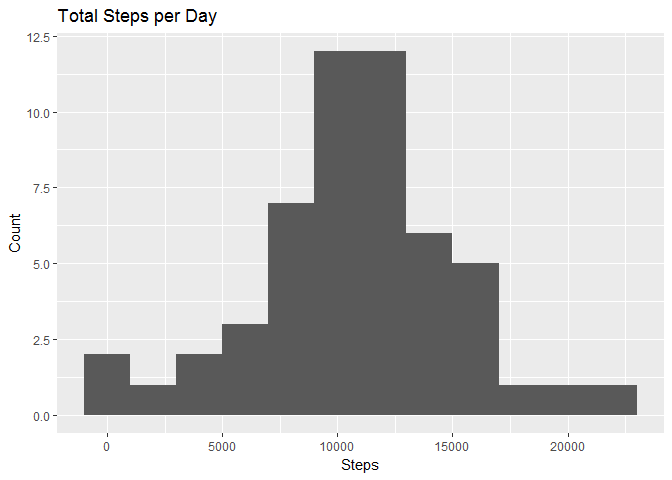
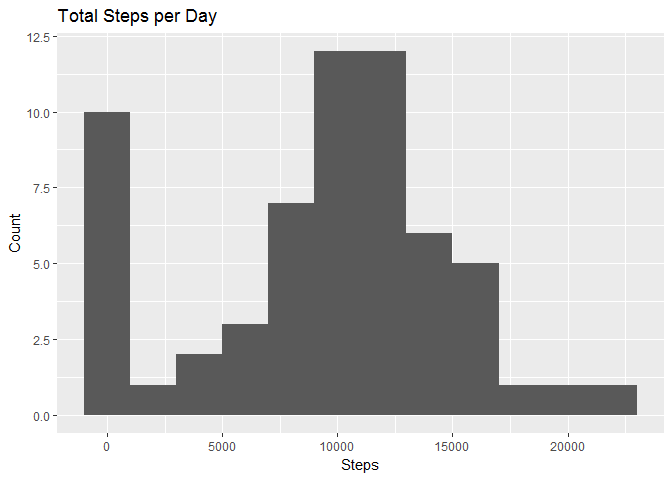
made some fixes to mean calculations

Changed region(s): [[0.125, 0.2188, 0.2188, 0.75]]

diff --git a/PA1_template.html b/PA1_template.html
@@ -122,14 +122,15 @@ $(document).ready(function () {
 
 <div id="loading-and-preprocessing-the-data" class="section level2">
 <h2>Loading and preprocessing the data</h2>
-<pre class="r"><code>#download the zipfile
-download.file(&quot;https://d396qusza40orc.cloudfront.net/repdata%2Fdata%2Factivity.zip&quot;, &quot;activity.zip&quot;)
+<pre class="r"><code>#download, unzip and read file the zipfile
+if(!file.exists(&quot;activity.zip&quot;)){
+        download.file(&quot;https://d396qusza40orc.cloudfront.net/repdata%2Fdata%2Factivity.zip&quot;, &quot;activity.zip&quot;)
+        unzip(&quot;activity.zip&quot;)
+}
 
-#unzip the file
-unzip(&quot;activity.zip&quot;)
-
-# read the data from unzipped csv file
+#read file
 activity &lt;- read.csv(&quot;activity.csv&quot;)
+
 # convert date column to data format
 activity$date &lt;- as.Date(as.character(activity[[&quot;date&quot;]]), &quot;%Y-%m-%d&quot;)</code></pre>
 </div>
@@ -146,18 +147,17 @@ library(dplyr)</code></pre>
 ## 
 ##     intersect, setdiff, setequal, union</code></pre>
 <pre class="r"><code>#get total steps in each day
-totalStepsPerDay &lt;- activity %&gt;% group_by(date) %&gt;% summarize(total.steps = sum(steps))
+totalStepsPerDay &lt;- activity %&gt;% group_by(date) %&gt;% summarize(total.steps = sum(steps, na.rm = TRUE))
 
 #plot histogram of total steps per day
 g &lt;- ggplot(totalStepsPerDay, aes(total.steps))
 g + geom_histogram(binwidth = 2000) + labs(title = &quot;Total Steps per Day&quot;) + labs(x = &quot;Steps&quot;, y = &quot;Count&quot;)</code></pre>
-<pre><code>## Warning: Removed 8 rows containing non-finite values (stat_bin).</code></pre>
[2 lines of base64/hex data omitted]
 <pre class="r"><code># calculating mean and median for total steps per day
 mean(totalStepsPerDay$total.steps, na.rm = TRUE)</code></pre>
-<pre><code>## [1] 10766.19</code></pre>
+<pre><code>## [1] 9354.23</code></pre>
 <pre class="r"><code>median(totalStepsPerDay$total.steps, na.rm = TRUE)</code></pre>
-<pre><code>## [1] 10765</code></pre>
+<pre><code>## [1] 10395</code></pre>
 </div>
 <div id="what-is-the-average-daily-activity-pattern" class="section level2">
 <h2>What is the average daily activity pattern?</h2>
@@ -194,8 +194,11 @@ activity$steps.imputed &lt;- apply(activity, 1, function(x) {
         
 })
 
-#get total (imputed) steps in each day 
-totalStepsPerDayImputed &lt;- activity %&gt;% group_by(date) %&gt;% summarize(total.steps.imputed = sum(steps.imputed))
+# calculate total number of missing values in the dataset after imputing 
+sum(is.na(activity$steps.imputed))</code></pre>
+<pre><code>## [1] 0</code></pre>
+<pre class="r"><code>#get total (imputed) steps in each day 
+totalStepsPerDayImputed &lt;- activity %&gt;% group_by(date) %&gt;% summarize(total.steps.imputed = sum(steps.imputed, na.rm = TRUE))
 
 #plot histogram of total steps per day
 g &lt;- ggplot(totalStepsPerDayImputed, aes(total.steps.imputed))
@@ -208,9 +211,9 @@ mean(totalStepsPerDayImputed$total.steps.imputed, na.rm = TRUE)</code></pre>
 <pre><code>## [1] 10766.19</code></pre>
 <pre class="r"><code># calculating mean and median for total steps per day
 mean(totalStepsPerDay$total.steps, na.rm = TRUE)</code></pre>
-<pre><code>## [1] 10766.19</code></pre>
+<pre><code>## [1] 9354.23</code></pre>
 <pre class="r"><code>median(totalStepsPerDay$total.steps, na.rm = TRUE)</code></pre>
-<pre><code>## [1] 10765</code></pre>
+<pre><code>## [1] 10395</code></pre>
 </div>
 <div id="are-there-differences-in-activity-patterns-between-weekdays-and-weekends" class="section level2">
 <h2>Are there differences in activity patterns between weekdays and weekends?</h2>

diff --git a/PA1_template.md b/PA1_template.md
@@ -5,14 +5,15 @@
 
 
 ```r
-#download the zipfile
-download.file("https://d396qusza40orc.cloudfront.net/repdata%2Fdata%2Factivity.zip", "activity.zip")
+#download, unzip and read file the zipfile
+if(!file.exists("activity.zip")){
+        download.file("https://d396qusza40orc.cloudfront.net/repdata%2Fdata%2Factivity.zip", "activity.zip")
+        unzip("activity.zip")
+}
 
-#unzip the file
-unzip("activity.zip")
-
-# read the data from unzipped csv file
+#read file
 activity <- read.csv("activity.csv")
+
 # convert date column to data format
 activity$date <- as.Date(as.character(activity[["date"]]), "%Y-%m-%d")
 ```
@@ -43,15 +44,11 @@ library(dplyr)
 
 ```r
 #get total steps in each day
-totalStepsPerDay <- activity %>% group_by(date) %>% summarize(total.steps = sum(steps))
+totalStepsPerDay <- activity %>% group_by(date) %>% summarize(total.steps = sum(steps, na.rm = TRUE))
 
 #plot histogram of total steps per day
 g <- ggplot(totalStepsPerDay, aes(total.steps))
 g + geom_histogram(binwidth = 2000) + labs(title = "Total Steps per Day") + labs(x = "Steps", y = "Count")
-```
-
-```
-## Warning: Removed 8 rows containing non-finite values (stat_bin).
 ```
 
 ![](PA1_template_files/figure-html/mean_daily_steps-1.png)<!-- -->
@@ -62,7 +59,7 @@ mean(totalStepsPerDay$total.steps, na.rm = TRUE)
 ```
 
 ```
-## [1] 10766.19
+## [1] 9354.23
 ```
 
 ```r
@@ -70,7 +67,7 @@ median(totalStepsPerDay$total.steps, na.rm = TRUE)
 ```
 
 ```
-## [1] 10765
+## [1] 10395
 ```
 
 ## What is the average daily activity pattern?
@@ -125,8 +122,17 @@ activity$steps.imputed <- apply(activity, 1, function(x) {
         
 })
 
+# calculate total number of missing values in the dataset after imputing 
+sum(is.na(activity$steps.imputed))
+```
+
+```
+## [1] 0
+```
+
+```r
 #get total (imputed) steps in each day 
-totalStepsPerDayImputed <- activity %>% group_by(date) %>% summarize(total.steps.imputed = sum(steps.imputed))
+totalStepsPerDayImputed <- activity %>% group_by(date) %>% summarize(total.steps.imputed = sum(steps.imputed, na.rm = TRUE))
 
 #plot histogram of total steps per day
 g <- ggplot(totalStepsPerDayImputed, aes(total.steps.imputed))
@@ -158,7 +164,7 @@ mean(totalStepsPerDay$total.steps, na.rm = TRUE)
 ```
 
 ```
-## [1] 10766.19
+## [1] 9354.23
 ```
 
 ```r
@@ -166,7 +172,7 @@ median(totalStepsPerDay$total.steps, na.rm = TRUE)
 ```
 
 ```
-## [1] 10765
+## [1] 10395
 ```
 
 ## Are there differences in activity patterns between weekdays and weekends?
